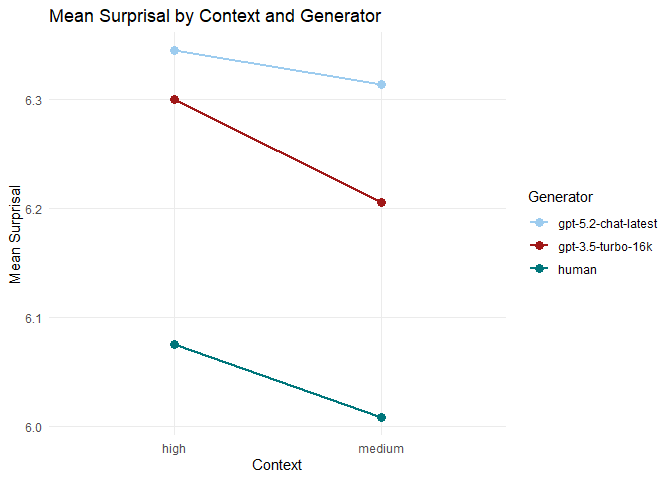
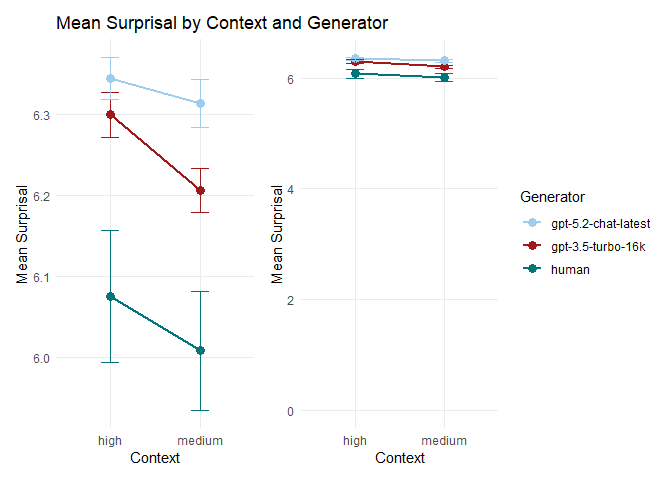
upload revised project solution

diff --git a/Projects/ZiyiWang/Solution_Jakob.md b/Projects/ZiyiWang/Solution_Jakob.md
@@ -96,9 +96,7 @@ all items are included.
 
 ### Visualization I
 
-![](Solution_Jakob_files/figure-markdown_strict/unnamed-chunk-3-1.png)
-
-**Interpretation:**
+![](Solution_Jakob_files/figure-markdown_strict/unnamed-chunk-3-1.png)![](Solution_Jakob_files/figure-markdown_strict/unnamed-chunk-3-2.png)
 
 ### Visualization II
 
@@ -113,6 +111,9 @@ surprisal values. In a medium predictable preceeding context, the GPT
 3.5 still is closer to the GPT 5.2, but its surprisal value approaches
 more that of the human participants.
 
+However, the distances are very small, which can be seen when looking at
+the plot with the y-axis starting at 0.
+
 ### Visualization III
 
 ![](Solution_Jakob_files/figure-markdown_strict/unnamed-chunk-5-1.png)
@@ -120,7 +121,34 @@ more that of the human participants.
 **Interpretation:**
 
 The difference between both GPT generators is highest in the OH
-condition (when no specific particles are present?). I would conclude
+condition (when no specific particles are present). I would conclude
 from this that when no specific particles are present, the two models
 are less specificly trained and therefore less restricted in their
 generation leading to the largest differences in output.
+
+However, the distances are very small, which can be seen when looking at
+the plot with the y-axis starting at 0.
+
+## Additional Visualization (Correlation between surprisal values of generators)
+
+    ## [[1]]
+
+![](Solution_Jakob_files/figure-markdown_strict/unnamed-chunk-6-1.png)
+
+    ## 
+    ## [[2]]
+
+![](Solution_Jakob_files/figure-markdown_strict/unnamed-chunk-6-2.png)
+
+    ## 
+    ## [[3]]
+
+![](Solution_Jakob_files/figure-markdown_strict/unnamed-chunk-6-3.png)
+
+**Interpretation:**
+
+While the correlation across all generators is quite high, interestingly
+the smallest correlation is between the two GPT generators. This might
+be explained based on the parameters used for both models.
+
+A systematic difference based on the context is not really apparent.
